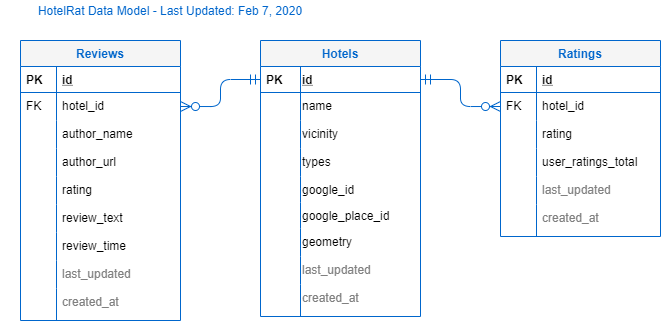
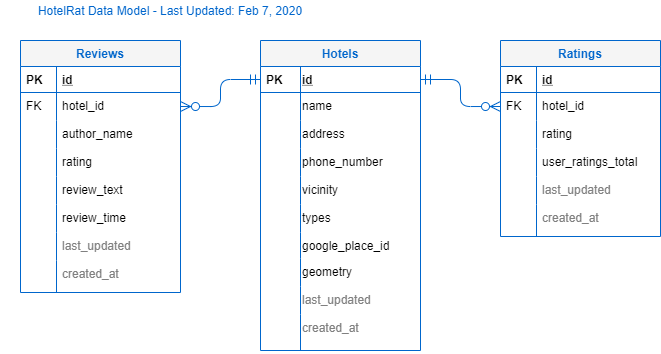
Adding comments. Updated data model and code to match.

diff --git a/data-gathering/output.py b/data-gathering/output.py
@@ -1,6 +1,8 @@
-'''Output module.
+'''
+Output module.
 
-[description]
+This module handles the output of data to all possible solutions.
+It is designed to primarily handle CSV and REST API but can be adapted.
 '''
 import os
 import pathlib
@@ -10,6 +12,26 @@ open_files = []
 
 
 def open_file(file, headers=''):
+    '''Open an output file if not open or find the file descriptor.
+
+    This function searches through open_files to see if a file has
+    been previously opened. If found, the file descriptor is returned.
+    If the file is not found to be open, it is opened and the CSV
+    headers are written to the top of the file, then it's added to the
+    open_files list.
+
+    Arguments:
+        file {[type]} -- The name of the file to be opened
+
+    Keyword Arguments:
+        headers {str} -- CSV headers to prepend to a file (default: {''})
+
+    Returns:
+        file descriptor -- The function return a file descriptor or None
+            if the file cannot be opened.
+    '''
+    global open_files
+
     for of in open_files:
         if file in of.name:
             return of
@@ -22,31 +44,42 @@ def open_file(file, headers=''):
         return f
     except Exception as e:
         print(e)
-    # with open(file, "w") as f:
-    #     open_files.append(f)
-    #     f.write(headers)
-    #     return f
 
     return None
 
 
-def rating(id,rating,user_ratings_total):
+def ratings(id,rating,user_ratings_total):
     global USE_CSV
 
     if USE_CSV:
         file = "ratings.csv"
         headers = "ID,Rating,Ratings Total\n"
-
         f = open_file(file, headers)
         if f == None:
             return
 
+
+        '''
+        Not the best code here, but it's DRY and has a
+        single responsibility. See below for more examples.
+        '''
         f.write(id + "," + str(rating) +","+ str(user_ratings_total) +"\n")
     else:
+        '''The condition used to send the data to a RESTful API'''
         pass
 
 
 def reviews(id,reviews):
+    '''
+    `reviews` accepts a dictionary of information and gathers the
+    required pieces based on the data model. Data that is not
+    required is silently discarded and not stored in CSV or sent
+    to the API.
+
+    Arguments:
+        id {int|string} -- Unique ID for the hotel
+        data {dictionary} -- Dictionary of data to process
+    '''
     global USE_CSV
 
     if reviews == None:
@@ -59,19 +92,41 @@ def reviews(id,reviews):
         if f == None:
             return
 
+
+        '''
+        The following block of code would not be considered
+        DRY since the `f.write()` is repeated for each field.
+        If the field order changes or new fields are added
+        this must be reworked to match.
+
+        Review the `hotels()` function for a better example.
+        '''
         for review in reviews:
-            f.write(id)
+            f.write(id) # Start with our ID
             f.write(","+review['author_name'])
             f.write(","+str(review['rating']))
             f.write(","+review['text'][:25])
             f.write(","+str(review['time']))
-            f.write("\n")
+            f.write("\n") # End with a newline character
     else:
+        '''The condition used to send the data to a RESTful API'''
         pass
 
 
 def hotels(id,data):
+    '''
+    `hotels` accepts a dictionary of information and gathers the
+    required pieces based on the data model. Data that is not
+    required is silently discarded and not stored in CSV or sent
+    to the API.
+
+    Arguments:
+        id {int|string} -- Unique ID for the hotel
+        data {dictionary} -- Dictionary of data to process
+    '''
     global USE_CSV
+    fields = ['name','formatted_address','formatted_phone_number','vicinity',
+        'types','google_place_id','geometry']
 
     if USE_CSV:
         file = "hotels.csv"
@@ -80,13 +135,11 @@ def hotels(id,data):
         if f == None:
             return
 
-        f.write(data['place_id'])
-        f.write(","+data['name'])
-        fa = data['formatted_address'] if 'formatted_address' in data else ''
-        f.write(","+fa)
-        fpn = data['formatted_phone_number'] if 'formatted_phone_number' in data else ''
-        f.write(","+fpn)
-        f.write(","+data['vicinity'])
-        f.write("\n")
+        f.write(data['place_id']) # Start with our ID
+        for field in range(fields): # Write each of the other fields
+            f = data[field] if data[field] in data else ''
+            f.write(","+f)
+        f.write("\n") # End with a newline character
     else:
+        '''The condition used to send the data to a RESTful API'''
         pass

diff --git a/data-gathering/main.py b/data-gathering/main.py
@@ -1,5 +1,12 @@
 #!/usr/bin/python
-#  -*- coding: utf-8 -*-
+'''
+This is the main execution entry point for our backend data gathering
+process. It relies on several modules to gather, process, and output
+the data for later use by the frontend.
+
+This script is a standalone process that will be scheduled to run
+on a regular basis to keep the data fresh and current.
+'''
 
 import sys
 import codecs
@@ -7,16 +14,7 @@ import codecs
 import gather
 import process
 
-
-
 if __name__ == '__main__':
-    # if sys.platform == "win32":
-        # import win_unicode_console
-        # from Unicode_win32 import stdout
-        # win_unicode_console.enable()
-        # sys.stdout = stdout
-
-    sys.stdout = codecs.getwriter('utf8')(sys.stdout.buffer)
     data = gather.get_data()
     if 'error' in data:
         print(data['error'])

diff --git a/data-gathering/process.py b/data-gathering/process.py
@@ -11,7 +11,8 @@ import gather
 import output
 
 def reviews(details):
-    """Gather and process user ratings for a particular place
+    """
+    Gather and process user ratings for a particular place.
 
     Arguments:
         place JSON object - API results for a single location
@@ -61,7 +62,7 @@ def single_place(place):
     obj = { 'rating': rating, 'user_ratings_total': user_ratings_total,
         'user_reviews': user_reviews
     }
-    output.rating(place['place_id'], rating, user_ratings_total)
+    output.ratings(place['place_id'], rating, user_ratings_total)
 
     output.reviews(place['place_id'], user_reviews)
 
